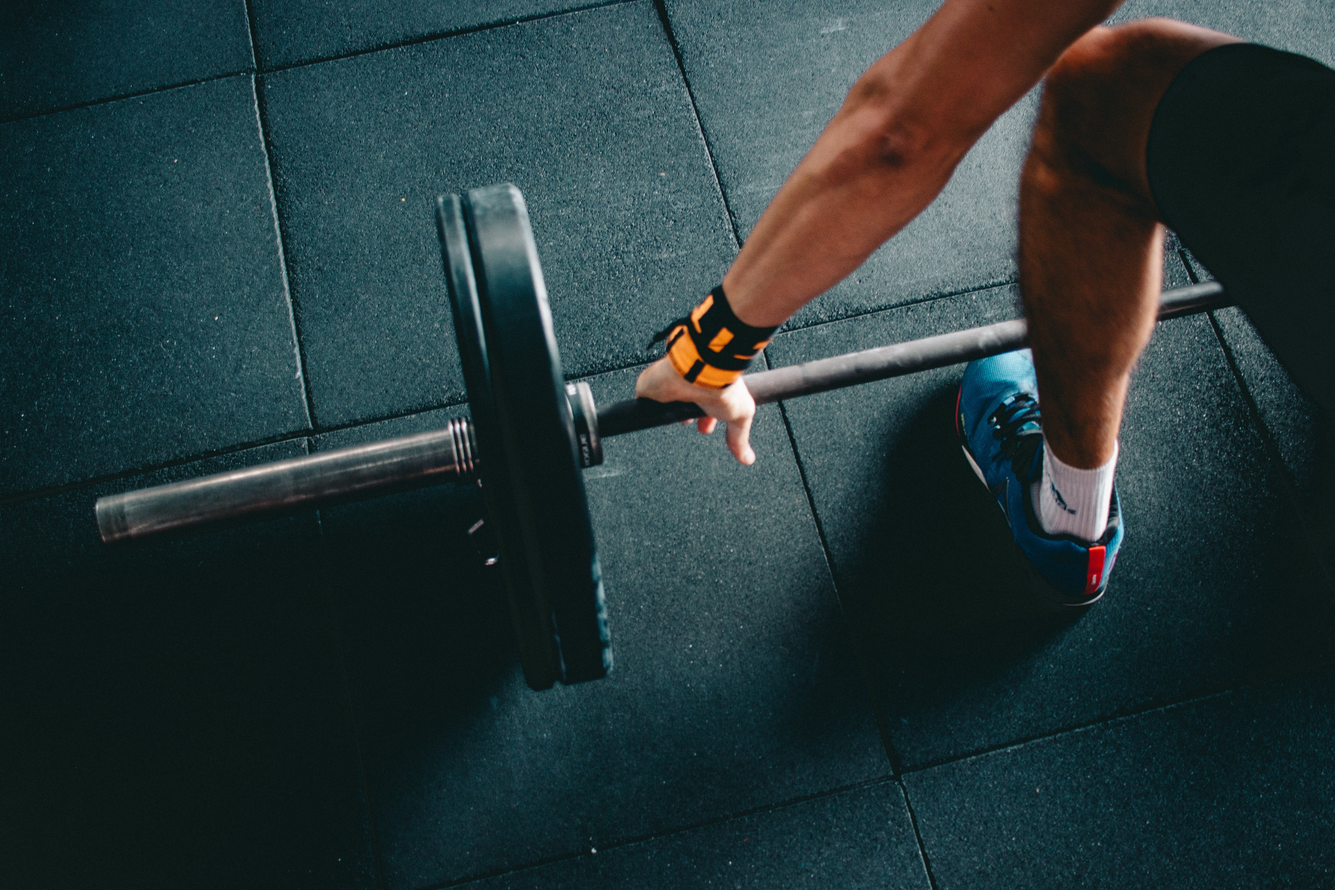
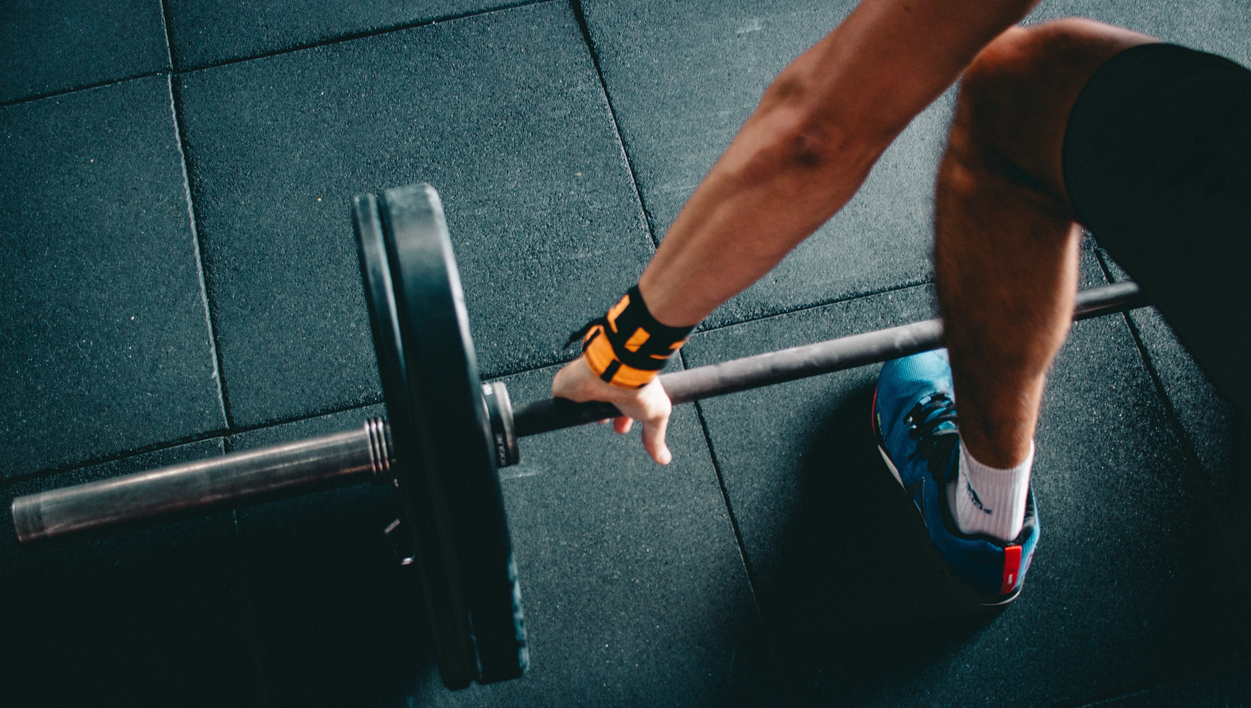
size bud fix

diff --git a/src/Hero/Hero.jsx b/src/Hero/Hero.jsx
@@ -9,9 +9,10 @@ function Hero () {
     /* CSS styled component*/
     const styles = {
         backgroundImage: `url(${HeroPic})`,
-        height: '95vh',
-        backgroundSize: 'cover ',
-        backgroundRepeat: 'no-repeat'
+        height: '90vh',
+        backgroundSize: 'cover',
+        backgroundRepeat: 'no-repeat',
+        objectFit: 'cover'
     }
 
     /* Framer- motion component */

diff --git a/src/Hero/Hero.css b/src/Hero/Hero.css
@@ -139,6 +139,8 @@ p {
     .hero--title {
       padding: 10% 3%;
     }
+
+    
     .hero--txt2{
         font-size: 80px;
     }

diff --git a/src/Reasons/Reasons.css b/src/Reasons/Reasons.css
@@ -8,6 +8,7 @@
 .left-r  img{
     width: 600px;
     height: 500px;
+    object-fit: contain;
     
 }
 section {
